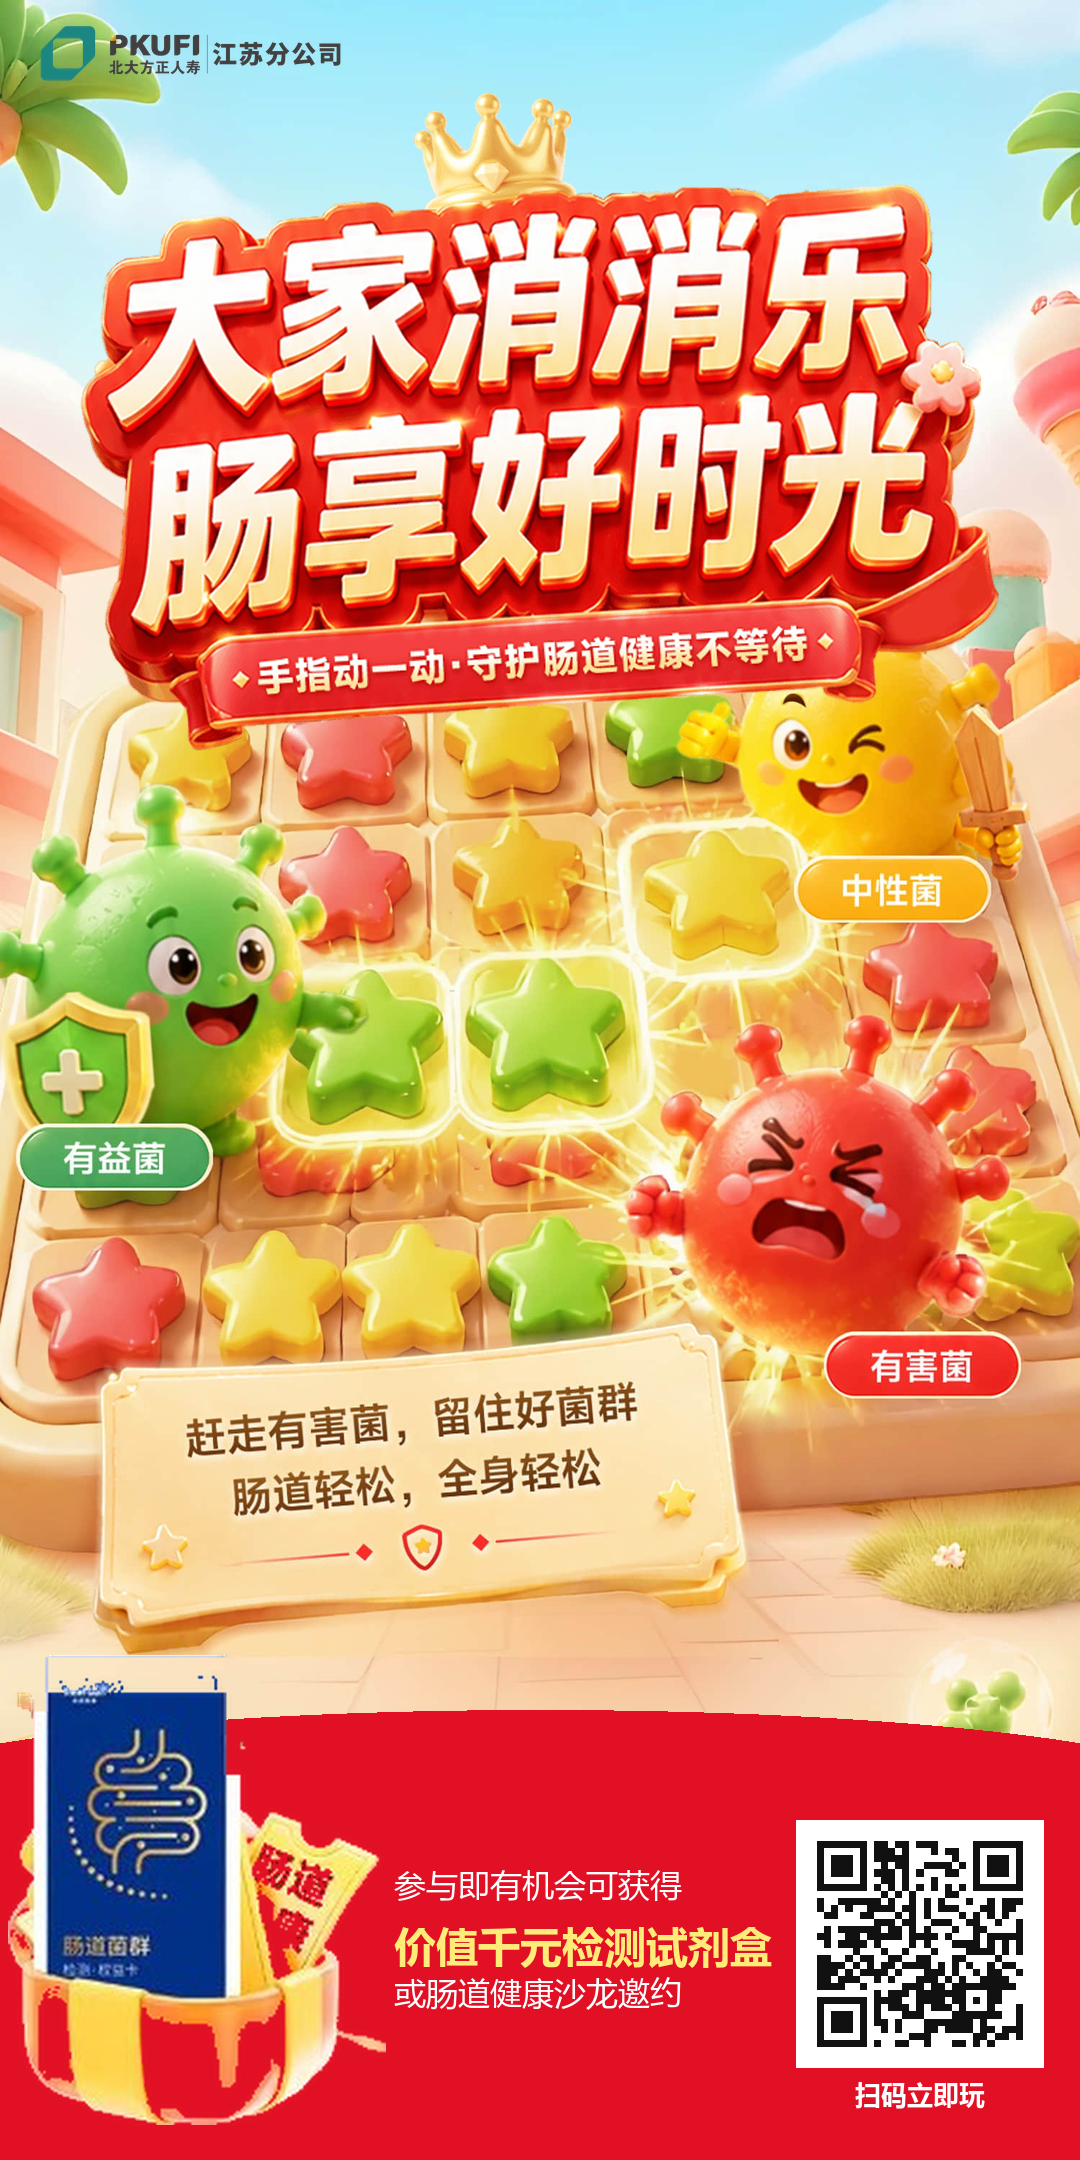
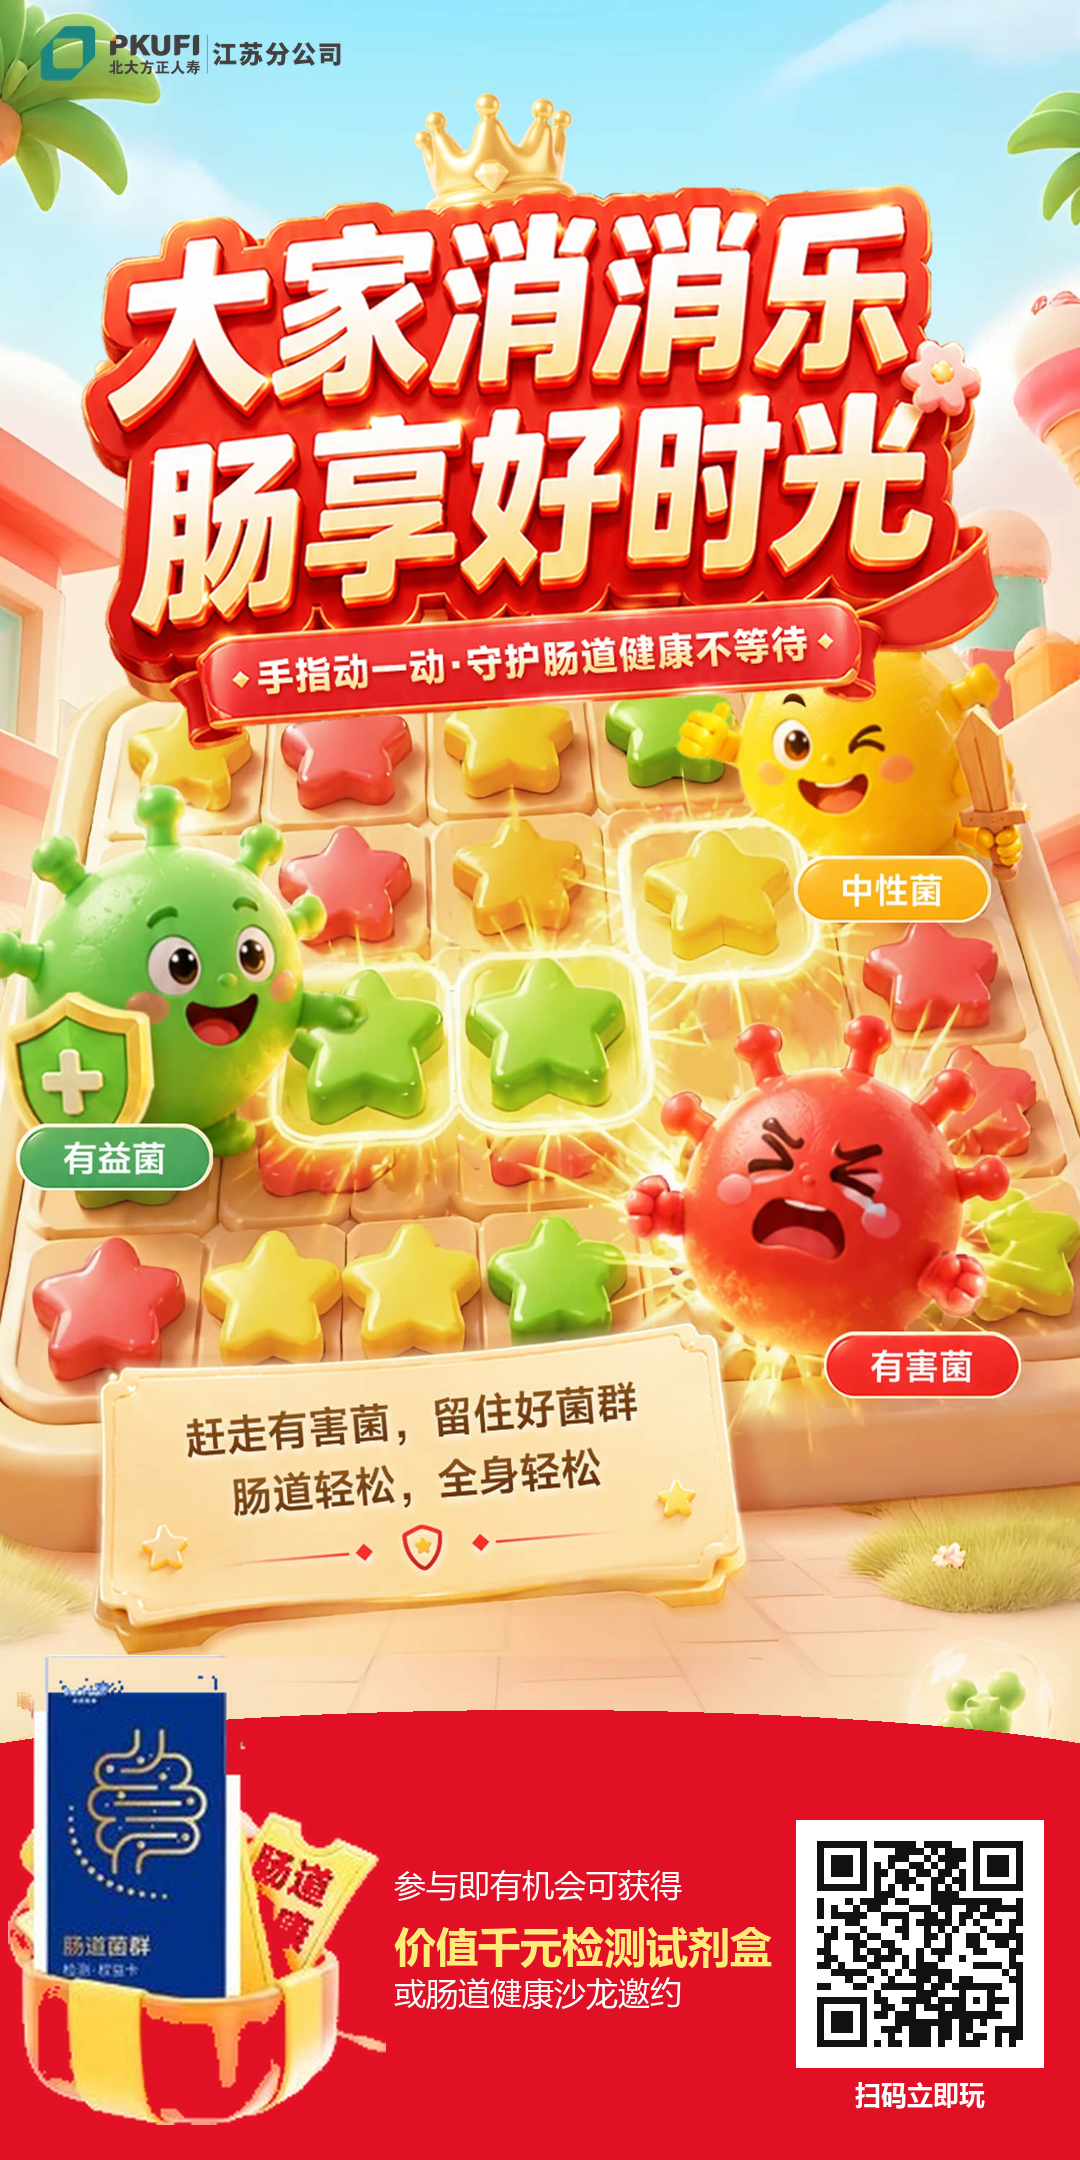
Point the share poster at the public game address.

Changed region(s): [[0.7639, 0.8375, 0.9472, 0.9616]]

diff --git a/make_poster.py b/make_poster.py
@@ -5,7 +5,7 @@ import qrcode
 from PIL import Image, ImageDraw, ImageFont
 
 ROOT = os.path.dirname(os.path.abspath(__file__))
-PLAY_URL = os.environ.get("PLAY_URL", "https://gut-match3-play.netlify.app/")
+PLAY_URL = os.environ.get("PLAY_URL", "https://hua691.github.io/gut-match3-play/")
 OUT = os.path.join(ROOT, "海报.png")
 
 W, H = 1080, 2160
